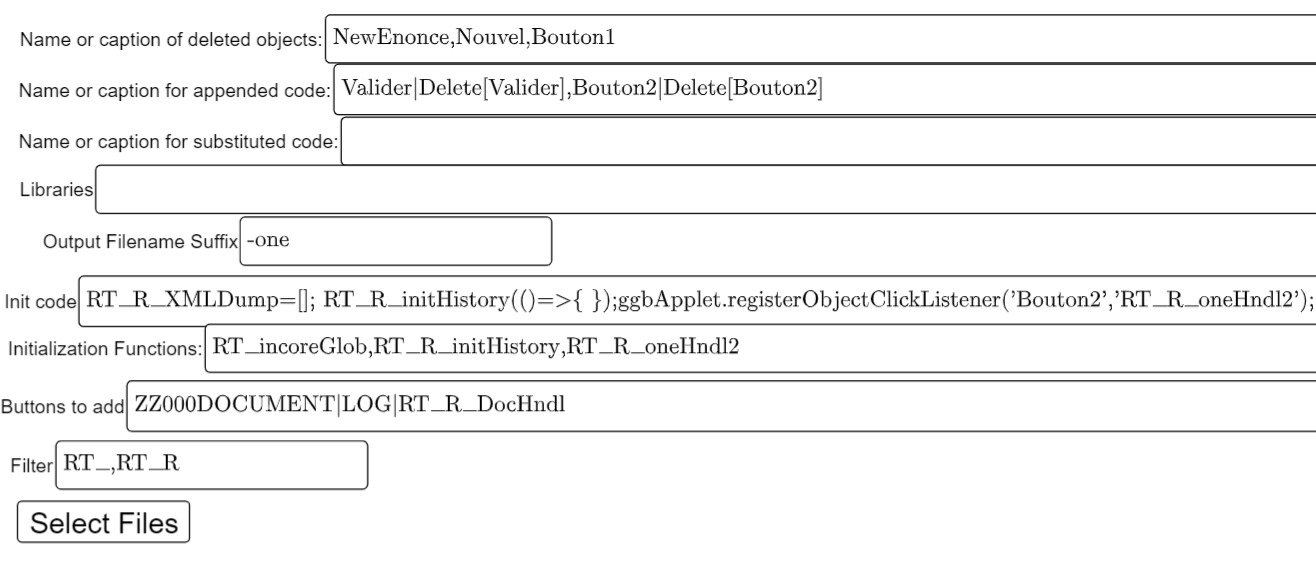
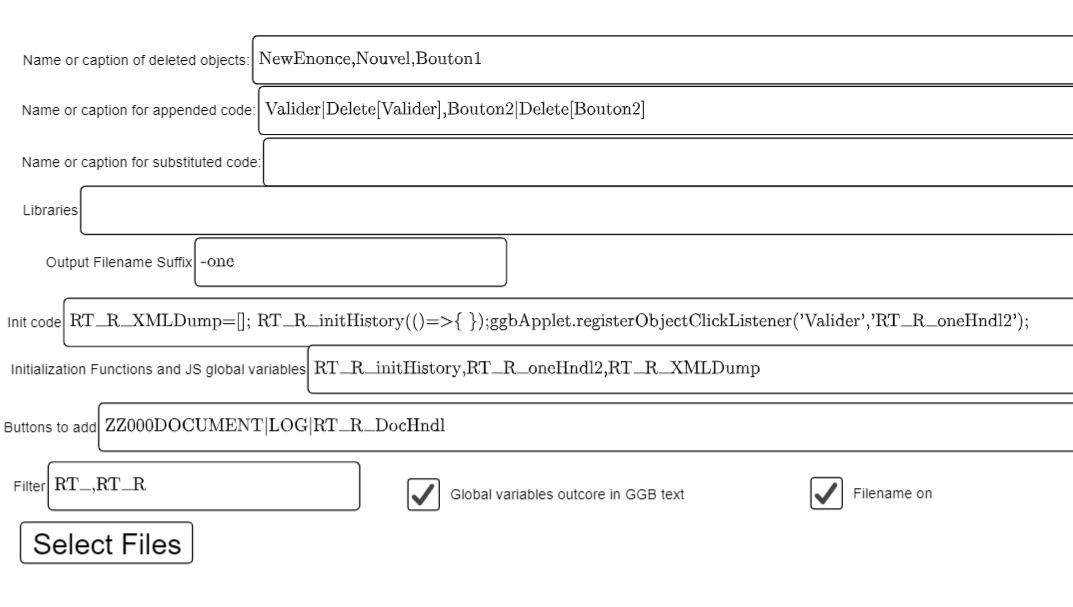
revised outcore

Changed region(s): [[0.0, 0.0, 1.0, 0.9594]]

diff --git a/ggbOnestep.js b/ggbOnestep.js
@@ -55,7 +55,7 @@
 	}
 //-----------------------------------------------------------------------
 //-----------------------------------------------------------------------
-	function oneReporterFile(fileList,suffix,initcode,inifun,delObjs,appendObjs,substituteObjs,buttons,libs,filter,globs,cont){
+	function oneReporterFile(fileList,suffix,initcode,inifun,delObjs,appendObjs,substituteObjs,buttons,libs,filter,outcore,filenameon,globs,cont){
 		debugger;
 		if(fileList.length==0){cont(); return;}
 		var file=fileList[0];
@@ -149,10 +149,12 @@
 						var i=0;
 						while(eval("typeof " + handle+i.toString())=== 'function')i++;
 						var ggbiniton=
-							"function ggbOnInit(){"+handle+i.toString()+"();"+
+							"function ggbOnInit(){"+
+							(outcore?"RT_incore=false;":"RT_incore=true;")+ //if true we are using JS global variables.
+							// this is supposed to be faster but it is not persistent. If false we store in text variables in GGB
+							handle+i.toString()+"();"+
 							"RT_loader(["+libslist+"],()=>{"+  
-							"RT_incore=false;"+
-							//"RT_incore=false;RT_incoreGlob();"+
+							//"RT_incoreGlob();"+ // this turns on incore
 							//"RT_R_XMLDump=[]; RT_R_initHistory(()=>{ });"+
 							initcode+
 							//Automated reporting to be added "RT_R_start();"+
@@ -160,26 +162,27 @@
 							//Automated reporting to be added init_report_code(delButtons,"RT_R_init_err")+
 							//Automated reporting to be added init_report_code(snapButtons,"RT_R_init_ok")+
 							//Automated reporting to be added init_report_code(substituteObjs,"RT_R_init_iterat")+
-							'RT_globsto("THISFILENAME","'+rootfname+'");'+
+							(filenameon?'RT_globsto("THISFILENAME","'+rootfname+'");':'')+
 							// Moodle Geogebra STAC TO BE ADDED 'try   {RT_initHook(); }catch(e){};'+
 							//'if(arguments.length>0){RT_bootdo(arguments[0])}'+
 							//'RT_globsto("FILEMANE",'+fname+'
 							"})}";
 							//var funclist=["RT_loader","RT_incoreGlob"].concat(buttonCLBFiles.concat(inifunclosure));//,filter,//["RT_R_","RT_"],
-							var funclist=["RT_loader"].concat(buttonCLBFiles.concat(inifunclosure));//,filter,//["RT_R_","RT_"],
+							var funclist=(outcore?["RT_incore","RT_loader"]:["RT_incore","RT_loader","RT_incoreGlob"]);
+							var funclist=funclist.concat(buttonCLBFiles.concat(inifunclosure));//,filter,//["RT_R_","RT_"],
 							funclist=[...new Set(funclist)];
 						
 						injectNeededCode(handle+i.toString()+"()",
 						ggbiniton,
 						funclist,
-							//"RT_saveFileHtml","RT_GGBExitHook","RT_outcoreGlob",
+							//"RT_saveFileHtml","XXXRT_GGBExitHook","RT_outcoreGlob",
 							//	"RT_globsto","RT_globlod","RT_globExists","RT_incoreGlob",
 							//	"RT_packGlobs","RT_wipeGlobs","RT_isGlob","RT_lod",
-							//"RT_initGGBMoodle","RT_incore","RT_loader","RT_unCommandStringify",RT_base64DecodeUnicode	
+							//"XXXRT_initGGBMoodle","RT_incore","RT_loader","RT_unCommandStringify",RT_base64DecodeUnicode	
 							//	],
 							fname,payload,
 							()=>{
-								oneReporterFile(OtherFiles,suffix,initcode,inifun,delObjs,appendObjs,substituteObjs,buttons,libs,filter,globs,cont);
+								oneReporterFile(OtherFiles,suffix,initcode,inifun,delObjs,appendObjs,substituteObjs,buttons,libs,filter,outcore,filenameon,globs,cont);
 							});
 					});
 				//wipeGlobs();
@@ -212,6 +215,8 @@ function clickToOnestep(){
 	var inifun="";
 	var buttons="";
 	var filter="";
+	var outcore=false;
+	var filenameon=false;
 	if(ggbApplet.exists("VARDEL")){delObjs=getparlist("VARDEL").flat();}
 	if(ggbApplet.exists("VARAPPEND")){appendObjs=getparlist("VARAPPEND");}
 	if(ggbApplet.exists("VARSUBSTITUTE")){substituteObjs=getparlist("VARSUBSTITUTE");}
@@ -221,12 +226,14 @@ function clickToOnestep(){
 	if(ggbApplet.exists("VARLIBS")){libs=getparlist("VARLIBS").flat();}
 	if(ggbApplet.exists("VARBUTTONS")){buttons=getparlist("VARBUTTONS");
 	if(ggbApplet.exists("VARFILTER")){filter=getparlist("VARFILTER").flat();}	
+	if(ggbApplet.exists("VAROUTCORE")){outcore=RT_lod("VAROUTCORE");}
+	if(ggbApplet.exists("VARFILENAME")){filenameon=RT_lod("VARFILENAME");}
 	}
 	foundConditions=(delObjs.length+appendObjs.length+substituteObjs.length);
 		//if (foundConditions>0){
 	  		if(confirm("Do you want to add reporting with the given "+foundConditions.toString()+" buttons")){
 	 			selectFiles(true,".ggb",(list)=>{
-					secureSection((globs,cont)=>{oneReporterFile(list,suffix,initcode,inifun,delObjs,appendObjs,substituteObjs,buttons,libs,filter,globs,cont)})
+					secureSection((globs,cont)=>{oneReporterFile(list,suffix,initcode,inifun,delObjs,appendObjs,substituteObjs,buttons,libs,filter,outcore,filenameon,globs,cont)})
 				});
  	  		}
 		//}

diff --git a/indexGGBOSAver.html b/indexGGBOSAver.html
@@ -61,9 +61,12 @@
       <li><span style="color: red;">Init code</span>: a string with a JS
         fragment that will be added to the initialization code run by the OASed
         .ggb when starting.</li>
-      <li><span style="color: red;">Initialization Functions</span>: a list of
-        strings that are the names of the functions that are needed in the
-        initialization code. The code for these functions is scanned to find
+      <li><span style="color: red;">Initialization Functions</span> <span style="color: red;">and
+          JS global variables</span>: a list of strings that are the prefixes of
+        the names of the global variables and functions that are needed in the
+        initialization code. Please note that initialization to global variables
+        are not propagated. You should add it yorself in the the initialization
+        code. On the other hand the code for the functions is scanned to find
         other functions names that are needed. If some functions are needed in
         other places put them in this list. To limit the number of functions to
         be searched the filter in the field "<span style="color: red;">Filter</span>"
@@ -73,6 +76,16 @@
       <li><span style="color: red;">Buttons to add</span>: a list of triples
         e.g. name|caption|code,n1|c1|sw1. creates button named n1 with caption
         c1 and with handler given as the function named sw1</li>
+      <li><span style="color: red;">Global variables outcore in GGB text</span>:
+        if set the global variables one might set and retrieve with functions in
+        the package ggbGlob.js are kept in GGB text variables and are
+        persistent. If not set the functions in ggbGlob.js use JS variables.
+        that are more compact and fast but are not persistent.</li>
+      <li>&nbsp;<span style="color: red;">Filename on: </span>if set some code
+        is added to have a GGB text variable holding the name of the original
+        .ggb file. This variable is a global variable that must be accessed by
+        the functions in the package ggbGlob.js and is named THISFILENAME (what
+        else?).</li>
     </ul>
     <p style="text-align: justify; background-color: white;"><i>In particular
         the choice in the example will give files SomeName-one.ggb decorated

diff --git a/RedoRecord.js b/RedoRecord.js
@@ -55,8 +55,8 @@ function RT_R_Snapshot2Add(){
 	ggbApplet.evalCommand('w_2=x(C_2wh)');
 	ggbApplet.evalCommand('h_2=y(C_2wh)');
 	ggbApplet.evalCommand('snap2 = ExportImage("view", 2, "corner",C_3,"corner2",C_4,"height",h_2,"width",w_2)');
-	ggbApplet.undo();
-	ggbApplet.redo();
+	//ggbApplet.undo();
+	//ggbApplet.redo();
 	alert("Snapshot taken");
 }
 function RT_R_SnpHndl(){

diff --git a/injector.js b/injector.js
@@ -62,7 +62,7 @@ function injectNeededCode(handle,ggboninit,prefixPatterns,fname,payload,cont){//
 	//"./RT.js"
 	//],
 	//(JScode)=>{
-		//debugger;
+		debugger;
 	var code = "";
 	// CODE FOR GLOBAL VARIABLES
 	var varlist=Object.getOwnPropertyNames(window).filter(item =>
